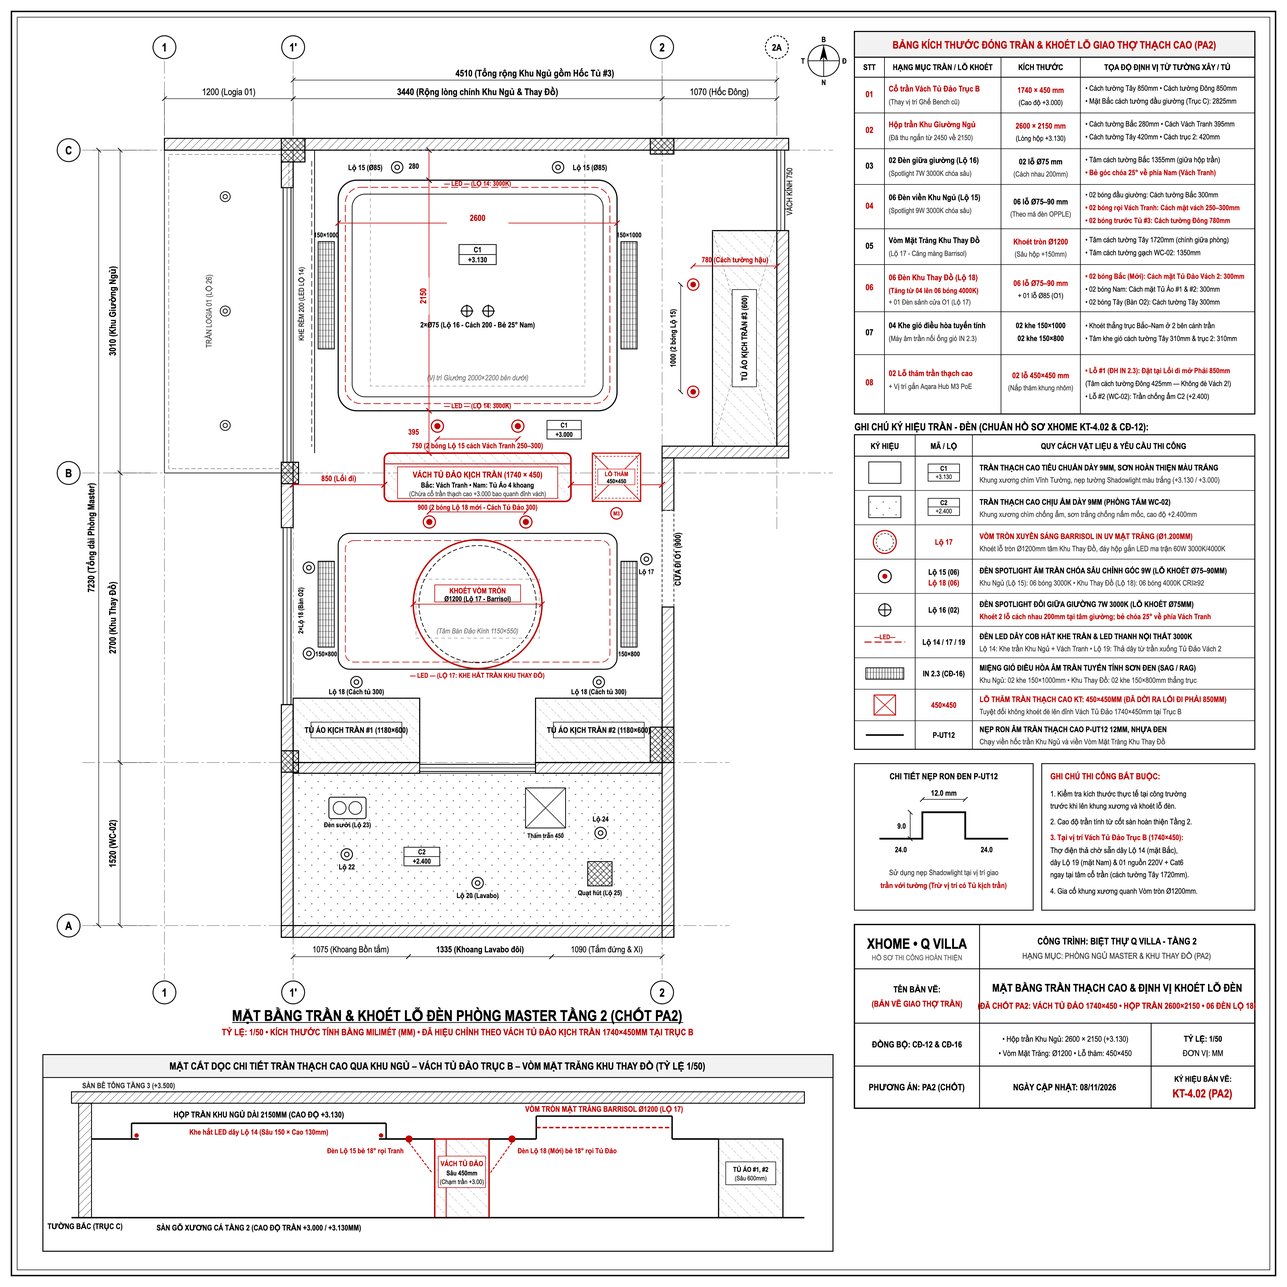
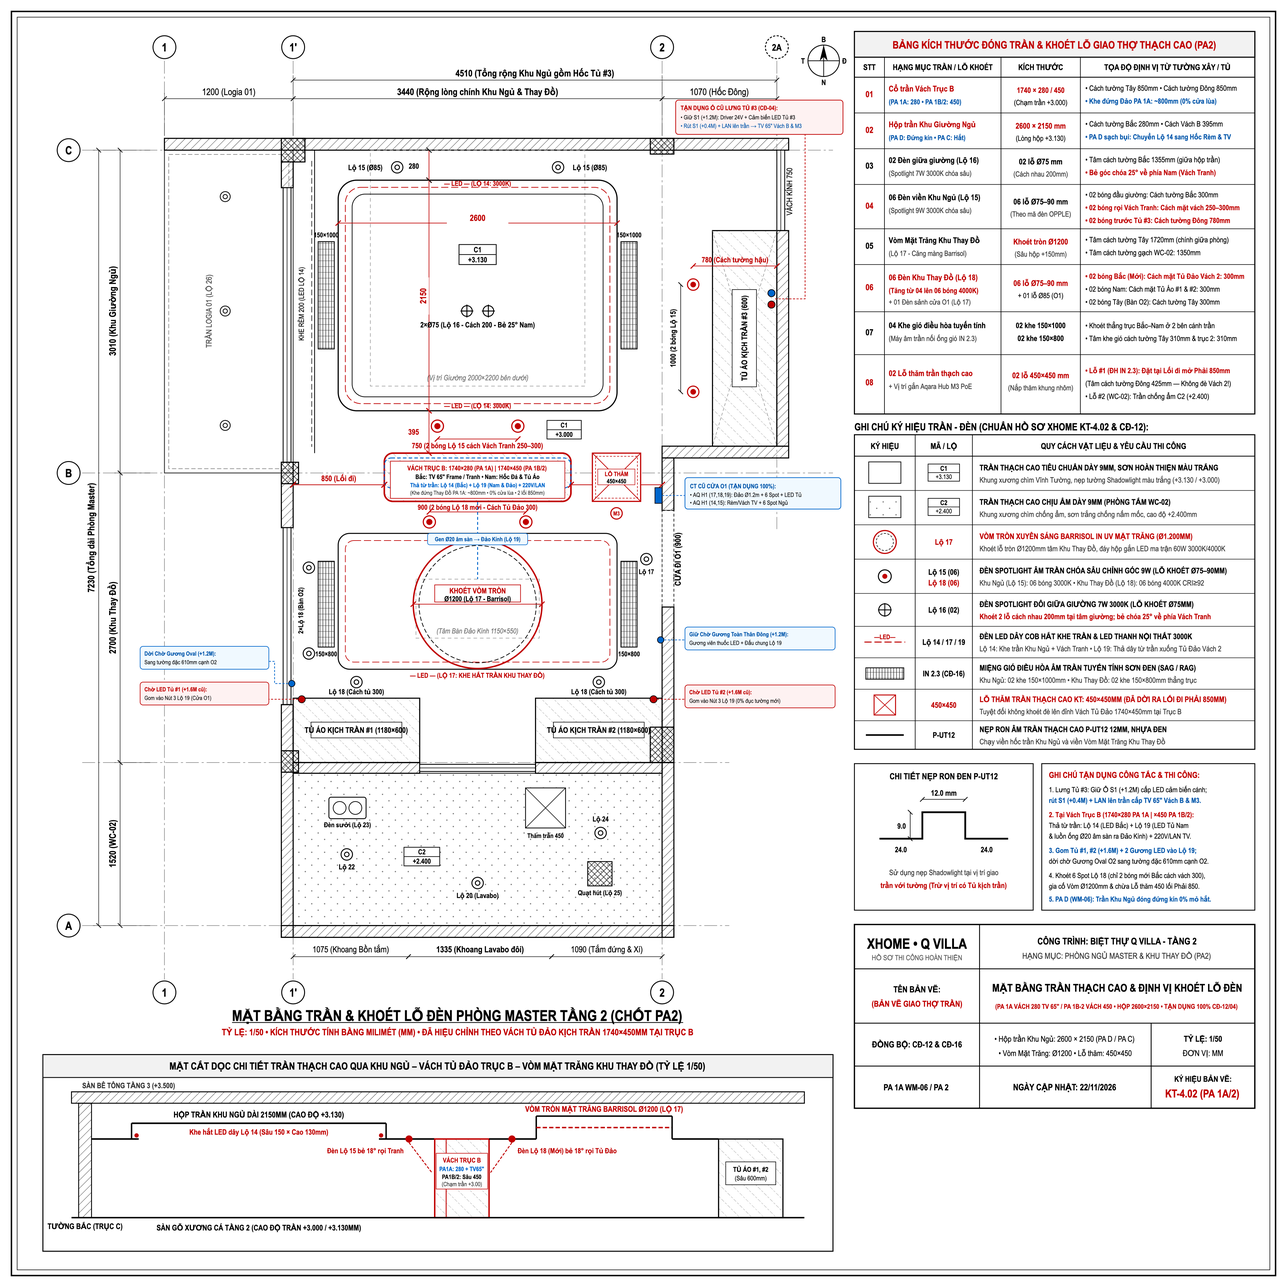
Update Master T2 ceiling CAD (PA 1A/PA 2) & document reuse of existing CĐ-12/CĐ-04 switches/stubs for new wardrobes

diff --git a/phong-master-tang2.html b/phong-master-tang2.html
@@ -689,16 +689,16 @@
 
     <!-- SECTION 1B: COMBINED CEILING, LIGHTING & DUCTED AC 2D BLUEPRINT -->
     <section class="block" id="sec-ceiling-2d">
-      <h2 class="section-title">📐 2. Bản Vẽ Kỹ Thuật 2D CAD Chuẩn XHOME Giao Thợ Thạch Cao Đóng Trần &amp; Khoét Lỗ Đèn (KT-4.02 PA2)</h2>
+      <h2 class="section-title">📐 2. Bản Vẽ Kỹ Thuật 2D CAD Chuẩn XHOME Giao Thợ Thạch Cao &amp; Thợ Điện (KT-4.02 — PA 1A WM-06 / PA 2)</h2>
       <p class="section-sub">
-        Đã vẽ lại đồng bộ theo đúng <strong>quy chuẩn hồ sơ kỹ thuật 2D CAD nền trắng của XHOME (<code>KT-4.02</code> &amp; <code>CĐ-12</code>)</strong> kèm Mặt Cắt Dọc A–A và Bảng Tọa Độ Khoét Lỗ từ tường xây để bác in ra giao trực tiếp cho đội thợ thạch cao &amp; thợ điện thi công:
+        Đã hiệu chỉnh đồng bộ theo đúng <strong>quy chuẩn hồ sơ kỹ thuật 2D CAD nền trắng của XHOME (<code>KT-4.02</code> &amp; <code>CĐ-12</code>)</strong> hỗ trợ đầy đủ <strong><code>PA 1A WM-06 Bo Cong Tinh Chỉnh</code> (Vách <code>280mm</code> âm TV <code>65"</code> • Khe đứng <code>~800mm</code> • Trần <code>PA D</code> sạch bụi không mỏ hắt hoặc <code>PA C</code> có mỏ hắt)</strong> lẫn <strong><code>PA 1B / PA 2</code> (Vách <code>450mm</code>)</strong>, kèm sơ đồ <strong>tận dụng 100% công tắc &amp; đầu chờ cũ cho khu tủ quần áo thêm mới</strong>:
       </p>
 
       <!-- Full-width XHOME 2D CAD Sheet Showcase -->
       <div class="img-frame" style="margin-bottom: 22px; border: 2px solid rgba(16, 185, 129, 0.65);">
-        <img src="assets/kt402_master_pa2_cad_xhome.svg" alt="Bản vẽ kỹ thuật 2D CAD chuẩn XHOME (KT-4.02 PA2) Mặt bằng trần thạch cao và định vị khoét lỗ đèn Phòng Master Tầng 2" onclick="openLightbox('assets/kt402_master_pa2_cad_xhome.svg', 2.2)" />
+        <img src="assets/kt402_master_pa2_cad_xhome.svg" alt="Bản vẽ kỹ thuật 2D CAD chuẩn XHOME (KT-4.02 PA 1A / PA 2) Mặt bằng trần thạch cao, khoét lỗ đèn và tận dụng công tắc cũ Phòng Master Tầng 2" onclick="openLightbox('assets/kt402_master_pa2_cad_xhome.svg', 2.2)" />
         <div class="img-caption" style="background: rgba(6, 78, 59, 0.92); color: #ecfdf5; flex-wrap: wrap;">
-          <span>📐 <strong>BẢN VẼ GIAO THỢ THẠCH CAO (KT-4.02 PA2 — CHUẨN CAD XHOME TỶ LỆ 1/50):</strong> Đầy đủ kích thước đóng hộp trần <code>2.600×2.150mm</code>, chừa cổ trần Vách Tủ Đảo <code>1.740×450mm</code>, khoét Vòm Mặt Trăng <code>Ø1.200mm</code>, <code>06 lỗ đèn Lộ 18</code> &amp; Lỗ thăm ĐH <code>450×450mm</code></span>
+          <span>📐 <strong>BẢN VẼ GIAO THỢ THẠCH CAO &amp; ĐIỆN (KT-4.02 — PA 1A / PA 2):</strong> Kích thước hộp trần <code>2.600×2.150mm</code>, cổ trần Vách Trục B <code>1.740×280/450mm</code>, Vòm <code>Ø1.200mm</code>, <code>06 đèn Lộ 18</code>, Lỗ thăm ĐH <code>450×450mm</code> &amp; chú thích tận dụng trọn bộ công tắc/đầu chờ <code>CĐ-12 / CĐ-04</code></span>
           <div style="display:flex; gap:8px; flex-wrap:wrap; align-items:center;">
             <button type="button" class="lb-btn active" onclick="openLightbox('assets/kt402_master_pa2_cad_xhome.svg', 2.5)">🔍 Bấm Phóng Đại 250% (Kéo Chuột Để Soi)</button>
             <a href="assets/kt402_master_pa2_cad_xhome.svg" target="_blank" rel="noopener" class="lb-btn">↗ Mở File Vector SVG Nét Tuyệt Đối (Tab Mới)</a>
@@ -729,37 +729,100 @@
         </div>
 
         <div class="info-panel">
-          <h3>Bảng Phân Lộ Đèn &amp; 04 Điểm Hiệu Chỉnh Chuẩn Theo Phương Án 2 (Vách Tủ Đảo Trục B)</h3>
+          <h3>Bảng Phân Lộ Đèn &amp; 04 Điểm Hiệu Chỉnh Theo PA 1A WM-06 (280mm • TV 65") &amp; PA 2 (450mm)</h3>
           <ul class="check-list">
             <li>
               <strong>Lộ 14 (Nút 1 Công tắc đôi <code>14,15</code> — Cửa O1 &amp; Đầu giường):</strong>
-              <br>• <strong>[Điểm chỉnh #1]: Thu ngắn Hộp Trần Giật Cấp Bo Góc Khu Ngủ từ <code>2.450 mm</code> về <code>2.150 mm</code></strong> (rộng <code>2.600 × 2.150 mm</code>, cao độ <code>+3.130 mm</code>) để chừa đúng <strong>dải trần phẳng rộng <code>400 mm</code> trước mặt Vách Tranh</strong>.
-              <br>• Dùng <code>9,5 m</code> đèn LED dây COB <code>10W/m 3000K</code> hắt khe trần + hắt khe rèm + <strong>đấu chung 02 khe LED hắt dọc mặt trước Vách Tranh Trục B</strong>.
+              <br>• <strong>[Điểm chỉnh #1]: Thu ngắn Hộp Trần Khu Ngủ từ <code>2.450 mm</code> về <code>2.150 mm</code></strong> (rộng <code>2.600 × 2.150 mm</code>, lòng <code>+3.130 mm</code>) để chừa dải trần phẳng rộng <code>395 mm</code> trước mặt Vách Trục B.
+              <br>• <strong>Tùy chọn Trần <code>PA D (WM-06 Sạch Bụi)</code> vs. <code>PA C</code>:</strong> Nếu đóng <strong>PA D sạch bụi (<code>0% mỏ hắt</code>)</strong> thì bỏ khe LED mỏ trần, đưa <code>Lộ 14</code> về bật <strong>LED Hốc Rèm <code>250mm</code> + 02 khe LED dọc Vách TV/Tranh mặt Bắc Trục B</strong>; nếu đóng <code>PA C</code> thì bật chung cả khe hắt bo góc trần.
             </li>
             <li>
               <strong>Lộ 15 (Nút 2 Công tắc đôi <code>14,15</code> — Giữ nguyên 06 Spotlight 9W 3000K Khu Ngủ):</strong>
-              <br>• <code>02 bóng</code> đầu giường (cách tường Bắc <code>350 mm</code>): Bẻ góc <code>15°</code> rửa sáng vách gỗ xương cá đầu giường.
-              <br>• <code>02 bóng</code> trước hốc tường Đông (<strong>dịch ra khoảng trống <code>470 mm</code> trước mặt Tủ #3, cách tường gạch hậu <code>780 mm</code></strong>): Bẻ góc <code>18°</code> rọi vào Tủ Áo #3.
-              <br>• <strong>[Điểm chỉnh #2]: <code>02 bóng</code> trước mặt Vách Tranh Trục B</strong> (khoét cách mặt vách đúng <code>300 mm</code>, hai bóng cách nhau <code>750 mm</code>): <strong>Bẻ góc <code>18°</code> rọi thẳng vào bức Tranh Nghệ Thuật</strong>!
+              <br>• <code>02 bóng</code> đầu giường (cách tường Bắc <code>300–350 mm</code>): Bẻ góc <code>15°</code> rửa sáng vách Kem Greige / Travertine đầu giường.
+              <br>• <code>02 bóng</code> trước hốc tường Đông (<strong>dịch ra khoảng trống <code>470 mm</code> trước mặt Tủ #3, cách tường gạch hậu <code>780 mm</code></strong>): Bẻ góc <code>18°</code> rọi thẳng vào lòng <strong>Tủ Áo #3 thêm mới</strong>!
+              <br>• <strong>[Điểm chỉnh #2]: <code>02 bóng</code> trước mặt Bắc Vách Trục B</strong> (khoét cách mặt vách <code>250–300 mm</code>, hai bóng cách nhau <code>750 mm</code>): Bẻ góc <code>18°</code> rọi nhấn <strong>mảng đá Travertine &amp; TV 65" The Frame (<code>PA 1A</code>)</strong> / Tranh (<code>PA 1B/2</code>).
             </li>
             <li>
-              <strong>Lộ 16 (Công tắc đơn <code>16</code> tại Đầu giường):</strong> Gồm <code>02 Spotlight 7W 3000K</code> giữa giường (<strong>bắt buộc bẻ chóa <code>25°</code> về phía Vách Tranh Trục B</strong> để nằm ngửa không chói mắt) + <code>02 đèn đọc sách</code> đầu giường.
+              <strong>Lộ 16 (Công tắc đơn <code>16</code> tại Đầu giường):</strong> Gồm <code>02 Spotlight 7W 3000K</code> giữa giường (<strong>bắt buộc bẻ chóa <code>25°</code> về phía Nam</strong> chống chói mắt khi nằm) + <code>02 đèn đọc sách</code> đầu giường.
             </li>
             <li>
-              <strong>Lộ 17 (Nút 1 Công tắc 3 nút <code>17,18,19</code> tại Cửa O1 — Ánh sáng Chill chủ đạo):</strong> <strong>Vòm Tròn Mặt Trăng Barrisol <code>Ø1.200 mm</code> (<code>60W</code>)</strong> + Khe LED hắt trần Khu Thay Đồ + 01 bóng sảnh cửa O1.
+              <strong>Lộ 17 (Nút 1 Công tắc 3 nút <code>17,18,19</code> tại Cửa O1 — Ánh sáng Chill chủ đạo):</strong> <strong>Vòm Tròn Mặt Trăng Barrisol <code>Ø1.200 mm</code> (<code>60W</code>)</strong> chính tâm Bàn Đảo + 01 bóng sảnh cửa <code>O1</code> (kèm khe LED hắt trần Thay Đồ nếu chọn <code>PA C</code>; bỏ khe hắt nếu chọn trần phẳng sạch bụi <code>PA D</code>).
             </li>
             <li>
               <strong>Lộ 18 (Nút 2 Công tắc 3 nút <code>17,18,19</code> — <span style="color:#34d399;">[Điểm chỉnh #3] Tăng từ 04 lên 06 Spotlight 9W 4000K CRI≥92</span>):</strong>
-              <br>• <strong style="color:#34d399;">Thêm <code>02 bóng</code> phía Bắc (cách mặt sau Vách 2 đúng <code>350 mm</code>):</strong> Bẻ góc <code>18°</code> rọi thẳng vào <strong>4 khoang Tủ Quần Áo &amp; Túi Xách mặt sau Vách 2</strong> (chống sập bóng lưng khi đứng mở tủ!).
-              <br>• <code>02 bóng</code> phía Nam trước Tủ #1 &amp; #2: Bẻ góc <code>18°</code> rọi sâu vào lòng tủ áo và Gương soi toàn thân.
-              <br>• <code>02 bóng</code> phía Tây trên Bàn treo cửa sổ O2: Bẻ góc <code>15°</code> rọi sáng mặt bàn trang điểm / làm việc.
+              <br>• <strong style="color:#34d399;"><code>02 bóng</code> phía Bắc (cách mặt sau Vách Trục B <code>300–350 mm</code>):</strong> Bẻ góc <code>18°</code> rọi vào <strong>hốc túi xách / tủ mặt Nam Vách Trục B</strong> (chống sập bóng lưng khi đứng tại khe đứng <code>~800mm</code> của <code>PA 1A</code>!).
+              <br>• <code>02 bóng</code> phía Nam trước Tủ #1 &amp; #2 (<code>cách tủ 300 mm</code>): Bẻ góc <code>18°</code> rọi sâu vào lòng <strong>Tủ Áo #1, #2</strong> và <strong>Gương toàn thân Đông</strong>.
+              <br>• <code>02 bóng</code> phía Tây trên <strong>Bàn treo cửa sổ <code>O2</code> &amp; Gương Oval tường đặc</strong> (<code>cách tường Tây 300 mm</code>).
             </li>
             <li>
-              <strong>Lộ 19 (Nút 3 Công tắc 3 nút <code>17,18,19</code> — Hệ LED Nội Thất 3000K) &amp; [Điểm chỉnh #4] Lỗ Thăm Điều Hòa:</strong>
-              <br>• Cấp nguồn cho LED Tủ #1, #2, #3, <strong>LED thanh cảm biến trong 4 khoang Tủ Đảo mặt sau Vách 2</strong> (thả dây trực tiếp từ trên trần xuống nóc tủ!) và <strong>luồn ống gen âm sàn ra Bàn Đảo Mặt Kính</strong>.
-              <br>• <strong>Dịch Lỗ thăm trần điều hòa (<code>450×450 mm</code>) + Cục <code>Aqara Hub M3 PoE #2</code></strong> sang trần của <strong>Lối đi mở bên Phải (<code>850 mm</code>, ngay trước Cửa O1)</strong> để không bị đỉnh Vách Tủ Đảo che khuất!
+              <strong>Lộ 19 (Nút 3 Công tắc 3 nút <code>17,18,19</code> — Gom LED Nội Thất 3000K) &amp; [Điểm chỉnh #4] Lỗ Thăm ĐH:</strong>
+              <br>• Thả dây trực tiếp từ trần Trục B xuống mặt Nam Vách 2 + luồn gen <code>Ø20</code> âm sàn ra <strong>Bàn Đảo Kính</strong> + gom chung <strong>Tủ #1, #2 (<code>+1.6M</code>)</strong> &amp; <strong>2 Gương LED</strong> vào 1 nút bấm duy nhất!
+              <br>• <strong>Dịch Lỗ thăm ĐH (<code>450×450 mm</code>) + Cục <code>Aqara Hub M3 PoE #2</code></strong> sang trần <strong>Lối đi mở Phải (<code>850 mm</code>, trước Cửa <code>O1</code>)</strong> để không bị đỉnh Vách Trục B che khuất.
             </li>
           </ul>
+        </div>
+      </div>
+
+      <!-- Reuse Table for Old Switches (CĐ-12) & Electrical Stubs (CĐ-04) -->
+      <div style="margin-top: 24px;">
+        <h3 style="font-size:1.1rem; font-weight:800; color:#6ee7b7; margin-bottom:10px;">
+          ⚡ Bảng Tận Dụng 100% Công Tắc (CĐ-12) &amp; Ổ Cắm/Đầu Chờ (CĐ-04) Thiết Kế Cũ Cho Khu Tủ Quần Áo Thêm Mới (0 Đế Âm Phát Sinh)
+        </h3>
+        <div class="table-wrap">
+          <table class="spec-table">
+            <thead>
+              <tr>
+                <th style="width:20%;">Công Tắc / Đầu Chờ Cũ (<code>CĐ-12 / CĐ-04</code>)</th>
+                <th style="width:22%;">Chức Năng Trong Bản Vẽ Cũ</th>
+                <th style="width:38%;">Cách Tận Dụng Cho Khu Tủ Quần Áo &amp; Đảo Thêm Mới</th>
+                <th style="width:20%;">Việc Thợ Điện Cần Làm</th>
+              </tr>
+            </thead>
+            <tbody>
+              <tr>
+                <td><strong>1. Nút 3 Công tắc cửa O1</strong><br><span class="zone-pill zone-walkin">Lộ 19 • Aqara H1 (17,18,19)</span></td>
+                <td>Đèn tường vách bàn phấn cũ tại Trục B + 02 đầu chờ LED Tủ Nam.</td>
+                <td>Gom toàn bộ <strong>LED Nội Thất Khu Thay Đồ</strong> về 1 nút bấm duy nhất: (a) Thả xuống mặt Nam Vách Trục B (LED hốc túi xách Travertine / 4 khoang tủ đảo); (b) Luồn ống gen <code>Ø20</code> âm sàn ra <strong>Bàn Đảo Mặt Kính</strong> (LED soi khay trang sức); (c) Đấu chung 2 đầu <code>"CHỜ LED TỦ +1.6M"</code> của <strong>Tủ Áo #1 &amp; #2</strong> và 2 đầu <code>"CHỜ LED GƯƠNG +1.2M"</code>.</td>
+                <td>Đưa đầu dây <code>Lộ 19</code> giữa trần Trục B chia nhánh thả trần + xuống 4 đầu chờ Nam/Đông/Tây.</td>
+              </tr>
+              <tr>
+                <td><strong>2. Nút 2 Công tắc cửa O1</strong><br><span class="zone-pill zone-walkin">Lộ 18 • Aqara H1 (17,18,19)</span></td>
+                <td><code>06</code> bóng Spotlight chiếu sáng chung Khu Thay Đồ.</td>
+                <td>Giữ nguyên đúng <code>06</code> đầu dây <code>Lộ 18</code> trên trần, chỉ dịch tọa độ khoét lỗ theo tủ mới: <strong>02 bóng Bắc</strong> (cách mặt sau Vách Trục B <code>300–350mm</code>, bẻ <code>18°</code> rọi vào mặt tủ/hốc túi xách sau Vách B) + <strong>02 bóng Nam</strong> (cách Tủ #1, #2 <code>300mm</code>) + <strong>02 bóng Tây</strong> (Bàn <code>O2</code>).</td>
+                <td>Khoét đúng <code>06</code> lỗ trần theo tọa độ bảng trên <code>KT-4.02</code>, giữ nguyên <code>1</code> dây lộ về cửa <code>O1</code>.</td>
+              </tr>
+              <tr>
+                <td><strong>3. Nút 1 Công tắc cửa O1</strong><br><span class="zone-pill zone-walkin">Lộ 17 • Aqara H1 (17,18,19)</span></td>
+                <td>Khe LED hắt trần Khu Thay Đồ + 01 bóng sảnh cửa <code>O1</code>.</td>
+                <td>Tận dụng cấp nguồn cho <strong>Vòng Chiếu Xuyên Sáng Barrisol <code>Ø1.200mm</code> (<code>60W</code>)</strong> chính tâm Bàn Đảo Kính + 01 bóng sảnh cửa <code>O1</code> (nếu đóng trần phẳng sạch bụi <code>PA D</code> thì bỏ khe hắt trần Thay Đồ, chỉ giữ Vòng <code>Ø1.200mm</code> + bóng <code>O1</code>).</td>
+                <td>Kéo dây <code>Lộ 17</code> vào hộp đèn Barrisol <code>Ø1.200mm</code> tại tâm phòng Thay Đồ.</td>
+              </tr>
+              <tr>
+                <td><strong>4. Nút 2 Công tắc Khu Ngủ</strong><br><span class="zone-pill zone-bed">Lộ 15 • Cửa O1 &amp; Đầu Giường</span></td>
+                <td><code>06</code> Spotlight Khu Ngủ (có bóng nằm giữa Hốc Đông <code>1.070mm</code>).</td>
+                <td>Vì Hốc Đông nay đặt <strong><code>Tủ Áo #3</code> thêm mới (<code>2.010×600mm</code>)</strong>, tận dụng đầu dây <code>Lộ 15</code> trong hốc để khoét <strong>02 bóng Spotlight ở khoảng trần trống <code>470mm</code> trước mặt cánh Tủ #3</strong> (cách tường hậu Đông <code>780mm</code> = cách mặt tủ <code>180mm</code>, bẻ <code>18°</code> rọi lòng Tủ #3); 02 bóng rọi Vách Trục B + 02 bóng đầu giường.</td>
+                <td>Tránh đè lên nóc Tủ #3 (<code>600mm</code>); khoét 2 bóng tại tim cách tường hậu <code>780mm</code>.</td>
+              </tr>
+              <tr>
+                <td><strong>5. Nút 1 Công tắc Khu Ngủ</strong><br><span class="zone-pill zone-bed">Lộ 14 • Cửa O1 &amp; Đầu Giường</span></td>
+                <td>Khe LED hắt trần Khu Ngủ + khe LED hốc rèm.</td>
+                <td>Tận dụng thả 1 nhánh xuống <strong>mặt Bắc Vách Trục B</strong> (nuôi 2 khe LED dọc đá Travertine hai bên <strong>TV 65" The Frame</strong> / Vách Tranh) + <strong>LED Hốc Rèm <code>250mm</code></strong>. Nếu chọn trần <code>PA D</code> sạch bụi không mỏ hắt, <code>Lộ 14</code> chuyên bật LED Rèm + Vách TV rất dịu mắt.</td>
+                <td>Thả sẵn 1 dây <code>Lộ 14</code> tại tâm cổ trần Vách Trục B xuống nóc vách gỗ.</td>
+              </tr>
+              <tr>
+                <td><strong>6. Cụm Ổ TV Hốc Đông (Tủ #3)</strong><br><span class="zone-pill zone-bed">S1 (+1.2M / +0.4M) &amp; LAN (+1.2M)</span></td>
+                <td>Cụm ổ cắm + mạng Tivi cũ đặt ở Hốc Đông <code>2.010mm</code> (<code>CĐ-04 / CĐ-09</code>).</td>
+                <td><strong>• Giữ ổ <code>S1 (+1.2M)</code></strong> ngay sau lưng/khoang kỹ thuật <strong>Tủ Áo #3</strong> để cắm <strong>Driver 24V + Cảm biến mở cánh LED</strong> bên trong 4 khoang Tủ #3 (mở cánh tự sáng, không cần kéo công tắc từ Khu Thay Đồ).<br><strong>• Rút ổ <code>S1 (+0.4M)</code> + dây <code>LAN (+1.2M)</code> cũ</strong> lên trần kéo thẳng ra <strong>Vách Trục B</strong> cấp nguồn &amp; mạng cho <strong>TV 65" The Frame</strong> + cục <strong><code>Aqara Hub M3 PoE #2</code></strong>.</td>
+                <td>Khoét hậu tủ tại vị trí ổ <code>S1 (+1.2M)</code>; luồn ống cứng kéo dây TV + LAN ra giữa trần Trục B.</td>
+              </tr>
+              <tr>
+                <td><strong>7. Đầu chờ Bàn phấn O2 (Tây)</strong><br><span class="zone-pill zone-walkin">"CHỜ LED GƯƠNG +1.2M" &amp; S1</span></td>
+                <td>Ổ cắm gầm bàn/mặt bàn và đầu chờ LED gương đặt giữa cửa sổ <code>O2</code>.</td>
+                <td>Giữ nguyên ổ <code>S1 (+0.4M) + LAN</code> gầm bàn và <code>S1 (+1.2M)</code> mặt bàn dưới cửa sổ <code>O2</code>; chỉ <strong>dịch đầu dây <code>"CHỜ LED GƯƠNG +1.2M"</code> sang phải <code>~700mm</code> vào giữa mảng tường đặc <code>610mm</code></strong> (giữa <code>O2</code> &amp; Tủ #1) để đấu cho <strong>Gương Oval LED (<code>PA 1A</code>)</strong> mà không che mất cửa sổ.</td>
+                <td>Đánh dấu chuyển đầu dây chờ LED gương sang mảng tường đặc <code>610mm</code> cạnh <code>O2</code>.</td>
+              </tr>
+            </tbody>
+          </table>
         </div>
       </div>
     </section>
@@ -811,8 +874,8 @@
               <li>
                 <strong>✅ 06 Hạng mục ĐÃ KHỚP 100% giữa Công Năng Mới và Bản Vẽ Điện/Đèn Cũ:</strong>
                 <br>1) <strong>Hai bên Đầu Giường (Tường Bắc):</strong> 2 cụm ổ cắm <code>S1 (+0.7M)</code> và công tắc <code>(14,15)+(16)</code> cách nhau <code>2.140 mm</code> (cách tường Tây <code>500 mm</code>, cách trục 2 <code>800 mm</code>) — <strong>vừa khít hai bên mép Giường 2,0m</strong> (ngay trên 2 Tab đầu giường <code>550 mm</code>).
-                <br>2) <strong>Bàn Làm Việc &amp; Bàn Phấn Cửa Sổ O2 (Tường Tây):</strong> Cách trục B <code>850 mm</code> đã có sẵn <strong>ổ cắm <code>S1 (+0.4M)</code> gầm bàn + ổ mạng <code>LAN (+0.4M)</code> + ổ <code>S1 (+1.2M)</code> mặt bàn + dây <code>"CHỜ LED GƯƠNG +1.2M"</code></strong> (khớp 100% tâm bàn treo <code>1.330 mm</code>!).
-                <br>3) <strong>Cụm Công Tắc Cửa Vào O1 &amp; Ổ Cắm Robot Hút Bụi:</strong> Nằm trên <strong>mảng tường gạch Đông <code>490 mm</code> sát cửa O1</strong> (mảng tường cố định, không bị ảnh hưởng khi bỏ vách Tivi), gồm công tắc <code>(17,18,19)</code> + <code>(14,15)</code> + ổ <code>S1 (+0.25M)</code> cho Robot hút bụi.
+                <br>2) <strong>Bàn Làm Việc &amp; Bàn Phấn Cửa Sổ O2 (Tường Tây):</strong> Giữ nguyên <strong>ổ cắm <code>S1 (+0.4M)</code> + mạng <code>LAN (+0.4M)</code> gầm bàn</strong> và <code>S1 (+1.2M)</code> mặt bàn dưới cửa sổ; chỉ <strong>dịch dây <code>"CHỜ LED GƯƠNG +1.2M"</code> sang mảng tường đặc <code>610mm</code> bên cạnh O2</strong> cho Gương Oval (<code>PA 1A</code>).
+                <br>3) <strong>Cụm Công Tắc Cửa Vào O1 &amp; Ổ Cắm Robot Hút Bụi:</strong> Nằm trên <strong>mảng tường gạch Đông <code>490 mm</code> sát cửa O1</strong> (không bị ảnh hưởng khi bỏ vách Tivi cũ), tận dụng 100% 02 đế <strong>Aqara H1 <code>(17,18,19)</code> + <code>(14,15)</code></strong> và ổ <code>S1 (+0.25M)</code> cho Robot hút bụi.
                 <br>4) <strong>Hệ Tủ Áo #1, #2 &amp; Gương Toàn Thân:</strong> Đã có sẵn 2 đầu chờ <code>"CHỜ LED TỦ +1.6M"</code> ở 2 góc Nam và 1 đầu chờ <code>"CHỜ LED GƯƠNG +1.2M"</code> ở tường Đông.
                 <br>5) <strong>Hốc Rèm Tự Động &amp; Đèn Ban Công Logia 01:</strong> Đã có sẵn nguồn rèm góc Tây-Bắc và công tắc <code>(26)</code> cạnh cửa lùa.
                 <br>6) <strong>Phòng Tắm Master WC-02:</strong> Khớp 100% công tắc <code>(20..25)</code>, BNL <code>20A</code>, cảm biến <code>FP1E</code>, ổ cắm Lavabo đôi <code>S2 (+1.2M)</code> và ổ Bồn cầu <code>S2 (+0.4M)</code>.
